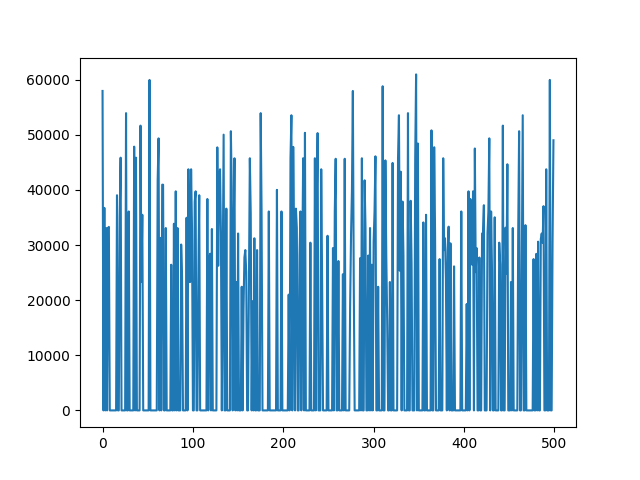
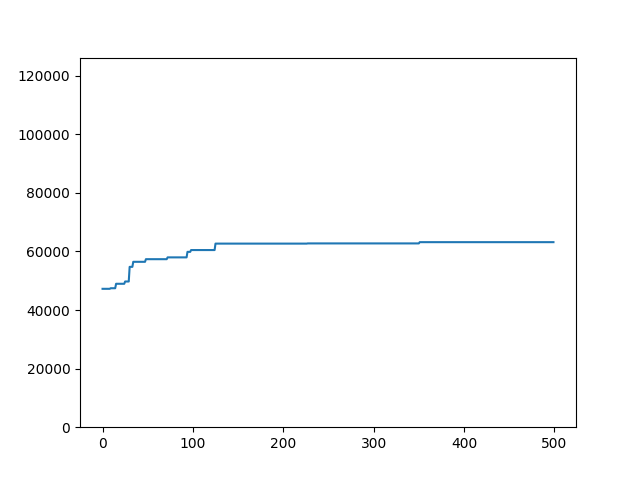
fix evolution for loop

diff --git a/main.py b/main.py
@@ -5,9 +5,9 @@ population = generate_population(100)
 best_fitness = []
 for i in range(ITERATION):
     new_population = evolve(population)
-    best = print_stats(new_population, i)
-    f = fitness_function(best)
-    best_fitness.append(f)
+    best, avg = print_stats(new_population, i)
+    best_fitness.append(best)
+    population = new_population
 
 import matplotlib.pyplot as plt
 import numpy as np
@@ -15,6 +15,8 @@ import numpy as np
 x = np.arange(ITERATION)
 y = np.array(best_fitness)
 
+# plt.ylim(0,np.max(y))
+plt.ylim(0,MAX_FITNESS)
 plt.plot(x, y)
-plt.savefig('result')
+plt.savefig('result3')
 plt.show()

diff --git a/test_main.py b/test_main.py
@@ -116,9 +116,10 @@ def print_stats(population, iteration_number):
         iteration_number,
         average_fitness,
         fitness_function(best),
-        genome_to_string(best)
+        genome_to_string(best),
+        # population_fitness(population)
     ))
-    return best
+    return fitness_function(best), average_fitness 
 
 
 def evolve(population, mutation_chance=0.01):
